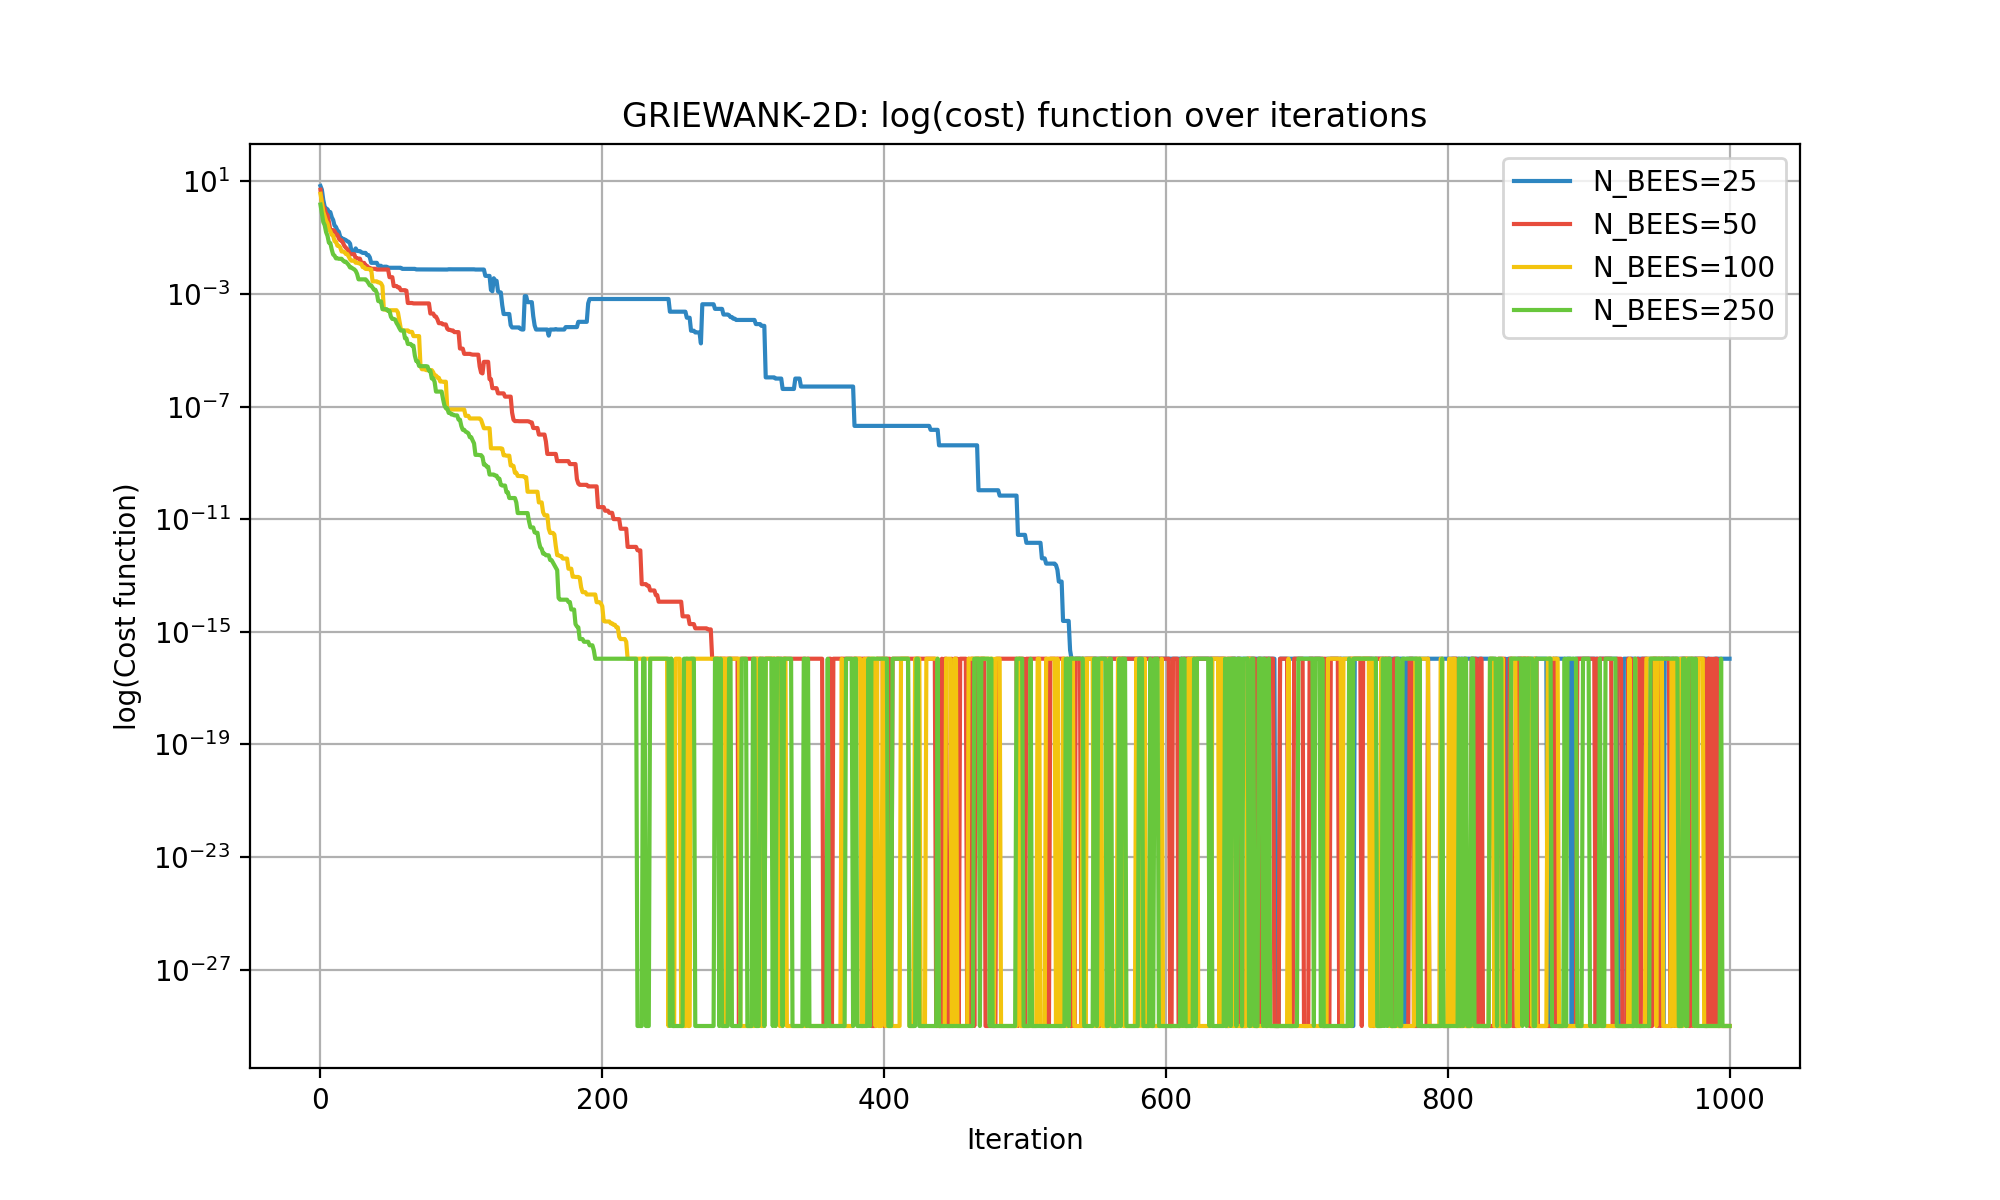
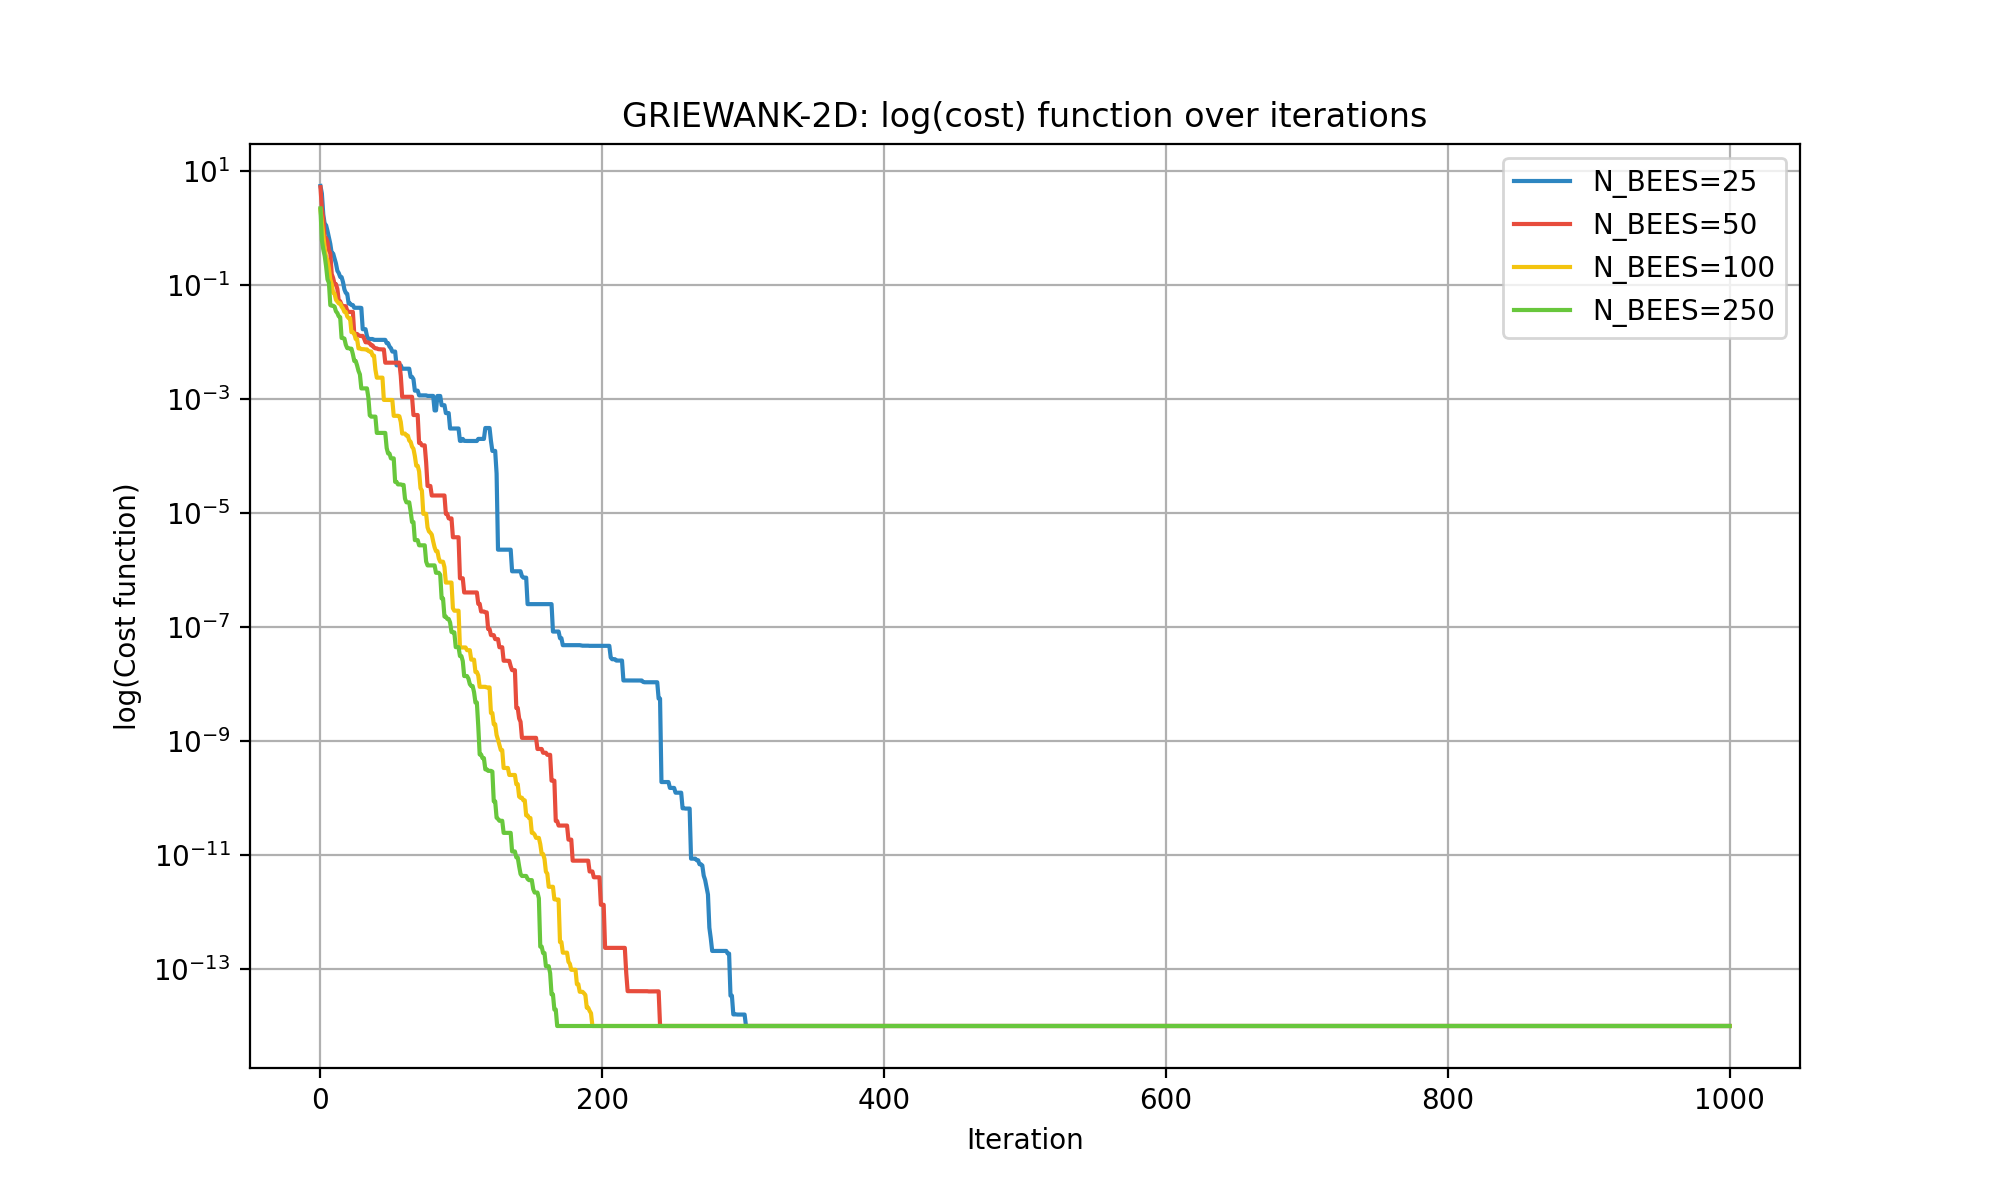
Re-done some plots

diff --git a/analysis/analysis_mutation.py b/analysis/analysis_mutation.py
@@ -15,14 +15,14 @@ from tqdm import trange
 N_BEES              = 100
 LIMIT               = 'default'
 MAX_ITERS           = 1000
-BENCHMARK_FUNCTIONS =  [Sphere2d,Rosenbrock2d,Ackley2d,Rastrigin2d,Weierstrass2d,Griewank2d,Schwefel2d,Sumsquares2d]
-                       #Sphere10d,Rosenbrock10d,Ackley10d,Rastrigin10d,Weierstrass10d,Griewank10d,Schwefel10d,Sumsquares10d,
+BENCHMARK_FUNCTIONS =  [#[Sphere2d,Rosenbrock2d,Ackley2d,Rastrigin2d,Weierstrass2d,Griewank2d,Schwefel2d,Sumsquares2d,
+                       Sphere10d,Rosenbrock10d,Ackley10d,Rastrigin10d,Weierstrass10d,Griewank10d,Schwefel10d,Sumsquares10d]#,
                        #Sphere30d,Rosenbrock30d,Ackley30d,Rastrigin30d,Weierstrass30d,Griewank30d,Schwefel30d,Sumsquares30d]
 SELECTION           = 'RouletteWheel'
 MUTATIONS           = ['StandardABC','ModifiedABC','ABC/best/1','ABC/best/2']
 INITIALIZATIONS     = ['random','cahotic']                      
 MR                  = 0.7
-STAGNATION_TOL      = np.NINF#1e-6
+STAGNATION_TOL      = 1e-7
 RANDOM_SEED         = 1234
 N_SIMULATIONS       = 10
 PLOT_COLORS         = ['#2E86C1','#55DDF9','#14521A','#68C73C','#BE291D','#FB9991','#C28D00','#FADA48'] 
@@ -66,11 +66,11 @@ if __name__ == '__main__':
 
                     optimal_history = [best_bee.value for best_bee in ABC.optimal_bee_history]
                     # Padding in case of stagnation
-                    #optimal_history += [optimal_history[-1]] * (MAX_ITERS + 1 - len(optimal_history))
+                    optimal_history += [optimal_history[-1]] * (MAX_ITERS + 1 - len(optimal_history))
                     cost_history[m,i,s,:] = optimal_history
                     
         cost_medians = np.median(cost_history,axis=2)
-        cost_medians = np.clip(cost_medians,a_min=10e-30,a_max=None)
+        cost_medians = np.clip(cost_medians,a_min=10e-15,a_max=None)
         
         plt.figure(figsize=(10, 7))
         x = np.arange(MAX_ITERS+1)

diff --git a/analysis/analysis_boxplots.py b/analysis/analysis_boxplots.py
@@ -13,9 +13,9 @@ import numpy as np
 # Global variables and functions
 #++++++++++++++++++++++++++++++++++++
 
-BENCHMARK_FUNCTIONS =  [Sphere2d,Rosenbrock2d,Ackley2d,Rastrigin2d,Weierstrass2d,Griewank2d,Schwefel2d,Sumsquares2d,
-                        Sphere10d,Rosenbrock10d,Ackley10d,Rastrigin10d,Weierstrass10d,Griewank10d,Schwefel10d,Sumsquares10d,
-                        Sphere30d,Rosenbrock30d,Ackley30d,Rastrigin30d,Weierstrass30d,Griewank30d,Schwefel30d,Sumsquares30d]
+BENCHMARK_FUNCTIONS =  [Griewank2d]#[Sphere2d,Rosenbrock2d,Ackley2d,Rastrigin2d,Weierstrass2d,Griewank2d,Schwefel2d,Sumsquares2d,
+                        #Sphere10d,Rosenbrock10d,Ackley10d,Rastrigin10d,Weierstrass10d,Griewank10d,Schwefel10d,Sumsquares10d,
+                        #Sphere30d,Rosenbrock30d,Ackley30d,Rastrigin30d,Weierstrass30d,Griewank30d,Schwefel30d,Sumsquares30d]
 
 CSV_PATH            = 'simulations/opt_report_full.csv'
 BOXPLOTS_PATH       = 'images/opt_boxplots/'
@@ -63,8 +63,10 @@ if __name__ == '__main__':
     # Load the optimization results
     simulations_df = pd.read_csv(CSV_PATH)
     # Clip the values for a better visualization
-    simulations_df['OptValue'] = np.clip(simulations_df['OptValue'],10e-30,None)
+    simulations_df['OptValue'] = np.clip(simulations_df['OptValue'],10e-15,None)
     # Create and store the boxplots
     for function in BENCHMARK_FUNCTIONS:
         boxplot = optimization_boxplot(function,simulations_df,scale='linear',title=f'Simulation results for {function.name}')
-        boxplot.write_image(BOXPLOTS_PATH+f'{function.name}_Standard_vs_Modified_boxplot.png',scale=2)
+        boxplot.write_image(BOXPLOTS_PATH+f'{function.name}_boxplot.png',scale=2)
+        #boxplot.write_image(BOXPLOTS_PATH+f'{function.name}_Standard_vs_Modified_boxplot.png',scale=2)
+        
